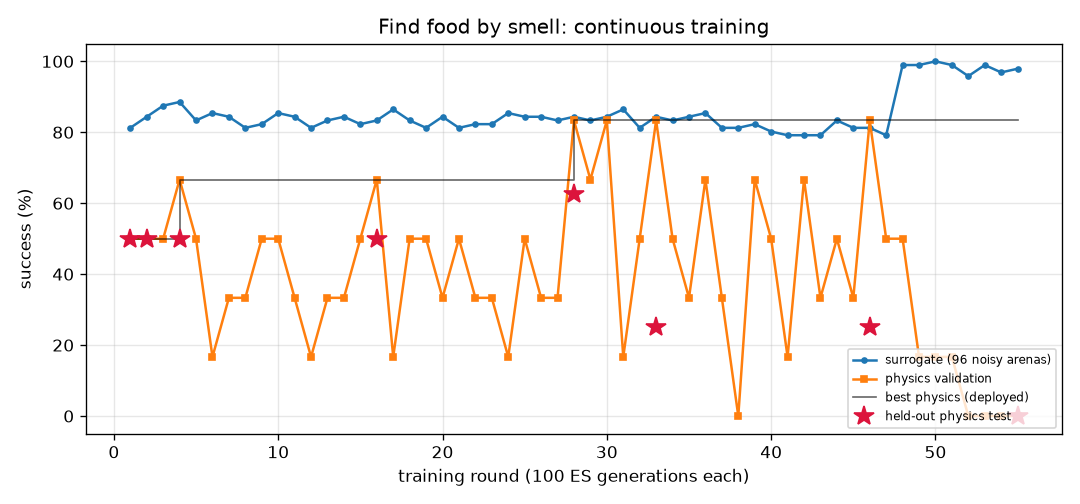
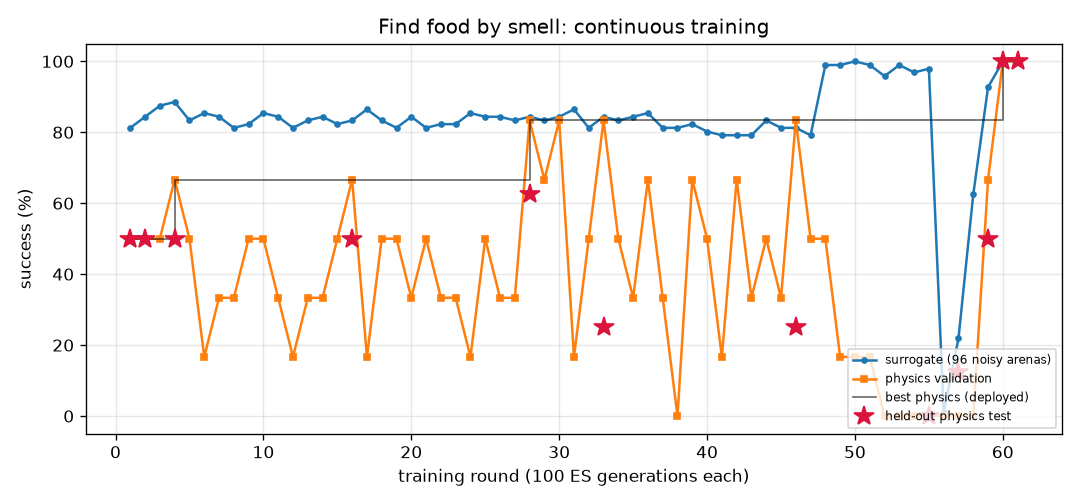
FlyLab: continuous training progress
- walk_forward: level 3/3, physics val 100% of 24, round 25
- turn: optimal, physics val 96% of 24, round 3
- goto: optimal, physics val 100% of 24, round 33
- odor_seek: level 2/3, physics val 100% of 12, round 61
- odor_avoid: level 1/3, physics val 100% of 6, round 100
- light_seek: level 3/3, physics val 100% of 24, round 1
- light_avoid: optimal, physics val 100% of 24, round 21

diff --git a/projects/09_flylab/training/odor_avoid/REPORT.md b/projects/09_flylab/training/odor_avoid/REPORT.md
@@ -1,14 +1,14 @@
 # Escape a bad smell (`odor_avoid`) — training report
 
-*Auto-generated by `train_brains.py`, last updated 2026-09-25T20:06:34.*
+*Auto-generated by `train_brains.py`, last updated 2026-09-25T21:10:17.*
 
 ![curve](curve.png)
 
 | | |
 |---|---|
-| rounds | 66 |
-| ES generations | 6600 |
-| physics runs | 542 |
+| rounds | 100 |
+| ES generations | 10000 |
+| physics runs | 746 |
 | status | level 1/3 |
 | best brain | round 48: physics validation **100%** on 6 arenas, surrogate 89% |
 | held-out physics test | **100%** on 8 unseen arenas (95% CI 68%-100%) (errors: [22.3, 22.1, 21.9, 22.3, 22.6, 23.2, 21.7, 23.7]) |
@@ -17,43 +17,43 @@ Physics error per arena: mm gained away from source (> 6 without first approachi
 
 | round | level | gens | sigma | surrogate | physics val | val errors | test | note |
 |---:|---:|---:|---:|---:|---:|---|---:|---|
-| 27 | 1 | 2700 | 0.030 | 90% | 67% | [8.7, 13.9, 13.0, 13.8, 4.4, 3.7] |  |  |
-| 28 | 1 | 2800 | 0.030 | 90% | 67% | [8.7, 13.9, 13.0, 13.8, 4.4, 3.7] |  |  |
-| 29 | 1 | 2900 | 0.030 | 90% | 67% | [8.7, 13.9, 13.0, 13.8, 4.4, 3.7] |  | restart from best |
-| 30 | 1 | 3000 | 0.030 | 90% | 67% | [8.7, 13.9, 13.0, 13.8, 4.4, 3.7] |  |  |
-| 31 | 1 | 3100 | 0.030 | 90% | 67% | [8.7, 13.9, 13.0, 13.8, 4.4, 3.7] |  |  |
-| 32 | 1 | 3200 | 0.030 | 90% | 67% | [8.7, 13.9, 13.0, 13.8, 4.4, 3.7] |  |  |
-| 33 | 1 | 3300 | 0.030 | 90% | 67% | [8.7, 13.9, 13.0, 13.8, 4.4, 3.7] |  | restart from best |
-| 34 | 1 | 3400 | 0.030 | 90% | 67% | [8.7, 13.9, 13.0, 13.8, 4.4, 3.7] |  |  |
-| 35 | 1 | 3500 | 0.030 | 90% | 67% | [8.7, 13.9, 13.0, 13.8, 4.4, 3.7] |  |  |
-| 36 | 1 | 3600 | 0.030 | 90% | 67% | [8.7, 13.9, 13.0, 13.8, 4.4, 3.7] |  |  |
-| 37 | 1 | 3700 | 0.030 | 90% | 67% | [8.7, 13.9, 13.0, 13.8, 4.4, 3.7] |  | restart from best |
-| 38 | 1 | 3800 | 0.030 | 90% | 67% | [8.7, 13.9, 13.0, 13.8, 4.4, 3.7] |  |  |
-| 39 | 1 | 3900 | 0.030 | 90% | 67% | [8.7, 13.9, 13.0, 13.8, 4.4, 3.7] | 88% | new best |
-| 40 | 1 | 4000 | 0.030 | 90% | 67% | [8.7, 13.9, 13.0, 13.8, 4.4, 3.7] |  |  |
-| 41 | 1 | 4100 | 0.030 | 90% | 67% | [8.7, 13.9, 13.0, 13.8, 4.4, 3.7] |  | reseed: fresh weights |
-| 42 | 1 | 4200 | 0.025 | 100% | 100% | [35.7, 33.8, 30.4, 34.0, 34.5, 34.7] | 100% | new best |
-| 43 | 1 | 4300 | 0.040 | 94% | 100% | [28.9, 28.3, 28.1, 28.5, 27.9, 27.8] | 100% | new best |
-| 44 | 1 | 4400 | 0.028 | 95% | 100% | [27.3, 25.5, 25.8, 25.7, 26.5, 26.3] |  |  |
-| 45 | 1 | 4500 | 0.027 | 95% | 100% | [26.7, 26.2, 26.0, 26.4, 25.5, 25.0] |  |  |
-| 46 | 1 | 4600 | 0.027 | 93% | 100% | [29.5, 29.3, 28.4, 29.4, 27.8, 28.0] |  |  |
-| 47 | 1 | 4700 | 0.028 | 96% | 100% | [19.5, 20.6, 19.8, 20.6, 18.4, 18.0] |  | restart from best |
-| 48 | 1 | 4800 | 0.028 | 89% | 100% | [22.8, 22.6, 22.7, 22.7, 21.6, 21.1] | 100% | new best |
-| 49 | 1 | 4900 | 0.030 | 95% | 100% | [23.8, 24.5, 23.9, 24.5, 23.1, 22.5] |  |  |
-| 50 | 1 | 5000 | 0.027 | 95% | 100% | [23.0, 24.1, 23.4, 24.1, 21.8, 21.6] |  |  |
-| 51 | 1 | 5100 | 0.027 | 96% | 100% | [21.1, 21.5, 20.9, 21.5, 19.6, 19.1] |  |  |
-| 52 | 1 | 5200 | 0.026 | 95% | 100% | [21.0, 22.0, 21.5, 22.1, 19.9, 19.5] |  | restart from best |
-| 53 | 1 | 5300 | 0.030 | 95% | 100% | [32.9, 32.0, 31.6, 32.1, 32.4, 32.1] |  |  |
-| 54 | 1 | 5400 | 0.027 | 96% | 100% | [36.9, 36.8, 35.8, 36.9, 36.0, 35.2] |  |  |
-| 55 | 1 | 5500 | 0.026 | 95% | 100% | [30.8, 30.7, 30.0, 30.9, 29.5, 29.2] |  |  |
-| 56 | 1 | 5600 | 0.027 | 97% | 100% | [39.1, 38.3, 38.0, 38.4, 38.3, 37.6] |  | restart from best |
-| 57 | 1 | 5700 | 0.030 | 95% | 100% | [32.3, 31.9, 31.8, 32.6, 31.8, 31.6] |  |  |
-| 58 | 1 | 5800 | 0.027 | 95% | 100% | [39.6, 38.4, 38.4, 38.5, 38.9, 38.5] |  |  |
-| 59 | 1 | 5900 | 0.027 | 95% | 100% | [41.9, 40.9, 40.4, 41.3, 41.3, 40.9] |  |  |
-| 60 | 1 | 6000 | 0.027 | 95% | 100% | [45.9, 44.5, 44.0, 44.9, 45.8, 45.4] |  | restart from best |
 | 61 | 1 | 6100 | 0.030 | 95% | 100% | [20.4, 21.0, 20.5, 21.0, 18.9, 18.6] |  |  |
 | 62 | 1 | 6200 | 0.027 | 96% | 100% | [28.8, 28.9, 28.2, 29.0, 26.9, 26.3] |  |  |
 | 63 | 1 | 6300 | 0.026 | 95% | 100% | [30.4, 30.9, 30.6, 31.1, 29.5, 29.2] |  |  |
 | 64 | 1 | 6400 | 0.027 | 96% | 100% | [38.2, 37.3, 37.4, 37.8, 37.0, 36.4] |  | restart from best |
 | 65 | 1 | 6500 | 0.030 | 95% | 100% | [18.3, 19.3, 18.6, 19.3, 17.1, 16.7] |  |  |
 | 66 | 1 | 6600 | 0.027 | 95% | 100% | [25.2, 25.4, 25.1, 25.4, 24.0, 23.7] |  |  |
+| 67 | 1 | 6700 | 0.028 | 93% | 100% | [21.9, 21.7, 21.0, 21.9, 19.6, 18.7] |  |  |
+| 68 | 1 | 6800 | 0.028 | 95% | 100% | [21.0, 21.4, 21.3, 21.5, 20.2, 19.4] |  | restart from best |
+| 69 | 1 | 6900 | 0.032 | 94% | 100% | [24.8, 24.8, 24.0, 24.9, 23.6, 23.2] |  |  |
+| 70 | 1 | 7000 | 0.028 | 94% | 100% | [26.9, 26.1, 25.3, 26.3, 25.6, 24.8] |  |  |
+| 71 | 1 | 7100 | 0.028 | 93% | 100% | [29.9, 28.8, 27.8, 28.7, 27.4, 27.4] |  |  |
+| 72 | 1 | 7200 | 0.028 | 95% | 100% | [35.0, 34.7, 33.9, 34.4, 33.9, 33.6] |  | restart from best |
+| 73 | 1 | 7300 | 0.032 | 93% | 100% | [19.0, 19.7, 18.9, 19.8, 17.5, 17.1] |  |  |
+| 74 | 1 | 7400 | 0.028 | 95% | 100% | [18.3, 18.5, 18.0, 18.7, 16.6, 16.0] |  |  |
+| 75 | 1 | 7500 | 0.027 | 92% | 100% | [19.5, 20.2, 19.6, 20.2, 17.9, 17.7] |  |  |
+| 76 | 1 | 7600 | 0.029 | 93% | 100% | [23.5, 23.6, 23.0, 23.7, 22.6, 22.3] |  | restart from best |
+| 77 | 1 | 7700 | 0.032 | 94% | 100% | [35.4, 34.4, 33.0, 34.2, 34.7, 34.6] |  |  |
+| 78 | 1 | 7800 | 0.028 | 93% | 100% | [39.3, 37.6, 36.6, 37.7, 37.5, 37.1] |  |  |
+| 79 | 1 | 7900 | 0.028 | 92% | 100% | [41.4, 40.2, 38.7, 40.4, 39.7, 40.4] |  |  |
+| 80 | 1 | 8000 | 0.029 | 95% | 100% | [43.3, 41.9, 39.9, 41.7, 42.6, 42.4] |  | restart from best |
+| 81 | 1 | 8100 | 0.032 | 93% | 100% | [22.6, 23.1, 22.4, 23.1, 21.0, 20.9] |  |  |
+| 82 | 1 | 8200 | 0.028 | 93% | 100% | [28.6, 28.8, 28.3, 29.1, 27.7, 27.3] |  |  |
+| 83 | 1 | 8300 | 0.028 | 94% | 100% | [30.9, 30.7, 30.2, 30.2, 30.0, 29.5] |  |  |
+| 84 | 1 | 8400 | 0.028 | 93% | 100% | [28.5, 28.8, 28.3, 28.8, 27.4, 26.5] |  | restart from best |
+| 85 | 1 | 8500 | 0.032 | 94% | 100% | [24.0, 24.2, 23.9, 24.4, 22.4, 21.9] |  |  |
+| 86 | 1 | 8600 | 0.028 | 92% | 100% | [27.8, 28.1, 27.3, 28.0, 26.1, 26.2] |  |  |
+| 87 | 1 | 8700 | 0.029 | 94% | 100% | [27.6, 27.9, 27.2, 28.0, 26.4, 26.0] |  |  |
+| 88 | 1 | 8800 | 0.028 | 94% | 100% | [35.4, 34.5, 34.4, 35.1, 35.0, 34.7] |  | restart from best |
+| 89 | 1 | 8900 | 0.032 | 92% | 100% | [24.8, 25.1, 24.3, 25.2, 23.4, 22.9] |  |  |
+| 90 | 1 | 9000 | 0.029 | 94% | 100% | [29.8, 29.0, 28.9, 29.3, 28.6, 27.8] |  |  |
+| 91 | 1 | 9100 | 0.028 | 94% | 100% | [28.6, 28.4, 27.9, 28.5, 27.8, 27.2] |  |  |
+| 92 | 1 | 9200 | 0.028 | 93% | 100% | [31.3, 30.8, 30.2, 30.9, 29.9, 29.3] |  | restart from best |
+| 93 | 1 | 9300 | 0.032 | 91% | 100% | [24.0, 24.2, 23.5, 24.1, 22.5, 22.1] |  |  |
+| 94 | 1 | 9400 | 0.029 | 92% | 100% | [33.3, 32.7, 32.4, 33.0, 32.1, 32.0] |  |  |
+| 95 | 1 | 9500 | 0.029 | 95% | 100% | [26.1, 26.3, 25.6, 26.4, 24.7, 24.1] |  |  |
+| 96 | 1 | 9600 | 0.027 | 92% | 83% | [18.8, 19.8, 19.2, 19.9, 18.0, 0.1] |  | restart from best |
+| 97 | 1 | 9700 | 0.032 | 93% | 100% | [22.8, 23.3, 22.8, 23.3, 21.4, 21.3] |  |  |
+| 98 | 1 | 9800 | 0.028 | 95% | 100% | [22.4, 22.5, 22.0, 22.5, 20.8, 20.4] |  |  |
+| 99 | 1 | 9900 | 0.027 | 93% | 100% | [30.1, 29.7, 29.6, 29.8, 29.3, 29.0] |  |  |
+| 100 | 1 | 10000 | 0.028 | 92% | 100% | [40.2, 39.2, 37.3, 39.6, 38.8, 37.9] |  | restart from best |

diff --git a/projects/09_flylab/training/odor_seek/REPORT.md b/projects/09_flylab/training/odor_seek/REPORT.md
@@ -1,28 +1,22 @@
 # Find food by smell (`odor_seek`) — training report
 
-*Auto-generated by `train_brains.py`, last updated 2026-09-25T18:43:36.*
+*Auto-generated by `train_brains.py`, last updated 2026-09-25T21:08:36.*
 
 ![curve](curve.png)
 
 | | |
 |---|---|
-| rounds | 55 |
-| ES generations | 5500 |
-| physics runs | 408 |
-| status | level 1/3 |
-| best brain | round 55: physics validation **0%** on 6 arenas, surrogate 98% |
-| held-out physics test | **0%** on 8 unseen arenas (95% CI 0%-32%) (errors: [3.15, 2.98, 3.42, 2.48, 1.83, 2.46, 0.94, 1.69]) |
+| rounds | 61 |
+| ES generations | 6100 |
+| physics runs | 518 |
+| status | level 2/3 (passed) |
+| best brain | round 61: physics validation **100%** on 12 arenas, surrogate 100% |
+| held-out physics test | **100%** on 16 unseen arenas (95% CI 81%-100%) (errors: [0.18, 0.22, 0.29, 0.26, 0.21, 0.16, 0.26, 0.27, 0.06, 0.28, 0.32, 0.22, 0.25, 0.25, 0.28, 0.21]) |
 
 Physics error per arena: mm from target at the end (< 1.5 and standing still = success).
 
 | round | level | gens | sigma | surrogate | physics val | val errors | test | note |
 |---:|---:|---:|---:|---:|---:|---|---:|---|
-| 16 | 1 | 1600 | 0.034 | 83% | 67% | [1.59, 2.42, 0.96, 2.19, 1.3, 0.63] | 50% | new best |
-| 17 | 1 | 1700 | 0.033 | 86% | 17% | [2.36, 3.03, 1.78, 2.92, 2.62, 2.08] |  |  |
-| 18 | 1 | 1800 | 0.032 | 83% | 50% | [1.62, 1.17, 1.92, 2.38, 2.46, 3.65] |  |  |
-| 19 | 1 | 1900 | 0.033 | 81% | 50% | [1.86, 1.29, 1.89, 3.47, 2.87, 2.04] |  |  |
-| 20 | 1 | 2000 | 0.035 | 84% | 33% | [2.04, 3.07, 1.91, 1.76, 3.17, 2.69] |  | restart from best |
-| 21 | 1 | 2100 | 0.033 | 81% | 50% | [2.03, 1.79, 2.84, 2.1, 1.74, 2.0] |  |  |
 | 22 | 1 | 2200 | 0.035 | 82% | 33% | [2.45, 3.41, 2.04, 2.53, 1.97, 1.59] |  |  |
 | 23 | 1 | 2300 | 0.034 | 82% | 33% | [3.62, 1.91, 2.12, 1.91, 2.0, 2.18] |  |  |
 | 24 | 1 | 2400 | 0.034 | 85% | 17% | [2.56, 1.52, 2.08, 2.01, 2.4, 2.27] |  | restart from best |
@@ -57,3 +51,9 @@ Physics error per arena: mm from target at the end (< 1.5 and standing still = s
 | 53 | 1 | 5300 | 0.026 | 99% | 0% | [3.41, 3.94, 1.82, 2.68, 2.04, 3.77] |  |  |
 | 54 | 1 | 5400 | 0.025 | 97% | 0% | [3.59, 2.19, 3.65, 4.14, 3.62, 2.43] |  |  |
 | 55 | 1 | 5500 | 0.026 | 98% | 0% | [2.82, 0.29, 1.41, 3.77, 3.34, 1.7] | 0% | new best |
+| 56 | 1 | 5600 | 0.078 | 1% | 0% | [2.57, 2.72, 3.56, 1.7, 1.5, 0.85] |  |  |
+| 57 | 1 | 5700 | 0.079 | 22% | 0% | [1.95, 1.02, 1.04, 2.27, 1.03, 1.84] | 12% | new best |
+| 58 | 1 | 5800 | 0.068 | 62% | 0% | [1.67, 0.2, 1.17, 2.06, 1.33, 3.19] |  |  |
+| 59 | 1 | 5900 | 0.045 | 93% | 67% | [2.87, 0.58, 0.93, 0.99, 0.27, 3.34] | 50% | new best |
+| 60 | 1 | 6000 | 0.028 | 100% | 100% | [0.24, 0.27, 0.15, 0.8, 0.31, 0.26] | 100% | new best |
+| 61 | 2 | 6100 | 0.024 | 100% | 100% | [0.22, 0.19, 0.28, 0.28, 0.21, 0.3, 0.21, 0.22, 0.19, 0.23, 0.26, 0.26] | 100% | new best |

diff --git a/projects/09_flylab/training/TRAINING.md b/projects/09_flylab/training/TRAINING.md
@@ -1,6 +1,6 @@
 # FlyLab brains — continuous training log
 
-*Auto-generated by `train_brains.py`, last updated 2026-09-25T20:06:34.*
+*Auto-generated by `train_brains.py`, last updated 2026-09-25T21:10:17.*
 
 Every skill has its own brain and its own training process: surrogate ES rounds, physics validation in MuJoCo, keep-the-best selection, and a held-out physics test that is never used for selection. See each skill's report for its full round-by-round history. Mastery is progressive: passing a level (100% physics validation, >=95% surrogate) doubles the validation and test arena sets; a brain is **optimal** once it holds up at level 3 (>=95% of 24 validation arenas) AND scores >=90% on the 32 held-out test arenas. Test columns show 95% Wilson confidence intervals.
 
@@ -9,7 +9,7 @@ Every skill has its own brain and its own training process: surrogate ES rounds,
 | [Walk forward](walk_forward/REPORT.md) | 25 | 2500 | 298 | 100% | 100% of 24 | 97% of 32 (CI 84-99%) | level 3/3 (passed) |
 | [Turn in place](turn/REPORT.md) | 3 | 300 | 126 | 99% | 96% of 24 | 91% of 32 (CI 76-97%) | **optimal** |
 | [Go to a location](goto/REPORT.md) | 33 | 3300 | 422 | 100% | 100% of 24 | 100% of 32 (CI 89-100%) | **optimal** |
-| [Find food by smell](odor_seek/REPORT.md) | 55 | 5500 | 408 | 98% | 0% of 6 | 0% of 8 (CI 0-32%) | level 1/3 |
-| [Escape a bad smell](odor_avoid/REPORT.md) | 66 | 6600 | 542 | 89% | 100% of 6 | 100% of 8 (CI 68-100%) | level 1/3 |
+| [Find food by smell](odor_seek/REPORT.md) | 61 | 6100 | 518 | 100% | 100% of 12 | 100% of 16 (CI 81-100%) | level 2/3 (passed) |
+| [Escape a bad smell](odor_avoid/REPORT.md) | 100 | 10000 | 746 | 89% | 100% of 6 | 100% of 8 (CI 68-100%) | level 1/3 |
 | [Walk toward light](light_seek/REPORT.md) | 1 | 100 | 98 | 100% | 100% of 24 | 100% of 32 (CI 89-100%) | level 3/3 (passed) |
 | [Hide from light](light_avoid/REPORT.md) | 21 | 2100 | 518 | 98% | 100% of 24 | 100% of 32 (CI 89-100%) | **optimal** |
